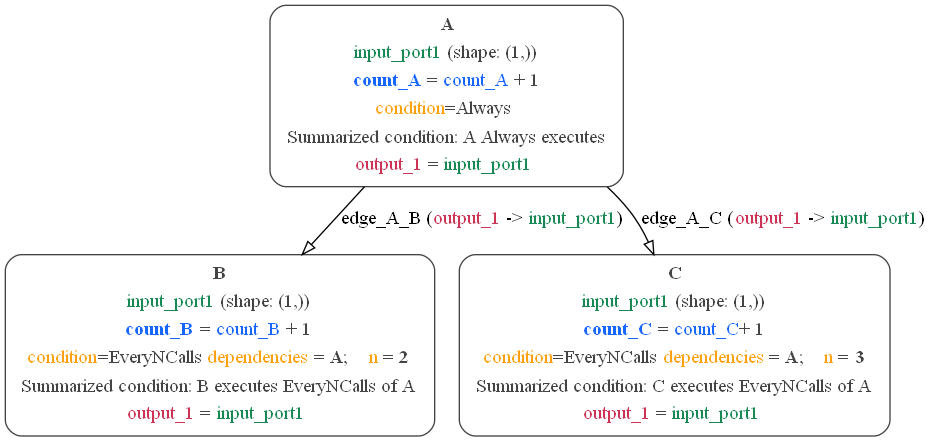
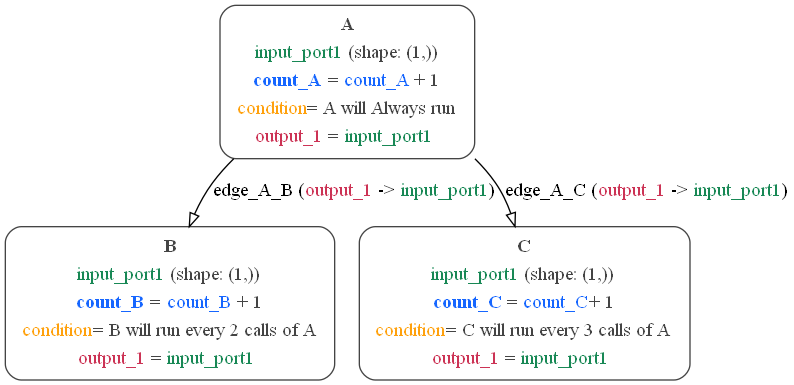
graphical export updated

Changed region(s): [[0.0, 0.0, 0.9975, 0.9974], [0.9068, 0.7792, 0.937, 0.8104]]

diff --git a/src/modeci_mdf/interfaces/graphviz/exporter.py b/src/modeci_mdf/interfaces/graphviz/exporter.py
@@ -294,16 +294,57 @@ def mdf_to_graphviz(
                             format_function(f.id),
                             format_standard_func(f.value),
                             argstr,
-                        )
-            if mdf_graph.conditions and mdf_graph.conditions.node_specific:
+                        ) 
+
+            #node specific conditions
+
+            if mdf_graph.conditions and mdf_graph.conditions.node_specific != None: #come to this ...
                 ns = mdf_graph.conditions.node_specific[node.id]
-                info += "<tr><td>{}{}={} ".format(
+                args = ns.kwargs
+                if ns.type == "EveryNCalls" :
+                    info += "<tr><td>{}{}= {} will run every {} calls of {}".format(
+                        format_label(" "),
+                        format_condition("condition"),
+                        node.id,
+                        args.get("n"),
+                        args.get("dependencies")
+                        )
+                    info += "</td></tr>"     
+                elif ns.type == "AfterNCalls" :
+                    info += "<tr><td>{}{}= {} will run after {} calls of {}".format(
+                        format_label(" "),
+                        format_condition("condition"),
+                        node.id,
+                        args.get("n"),
+                        args.get("dependencies")
+                        )
+                    info += "</td></tr>"
+                elif ns.type == "TimeInterval" :
+                    info += "<tr><td>{}{}= {} will run after {} ms".format(
+                        format_label(" "),
+                        format_condition("condition"),
+                        node.id,
+                        args.get("start")
+                        )
+                    info += "</td></tr>"
+                elif ns.type == "Threshold" :
+                    info += "<tr><td>{}{}= {} satisfied when the comparison between {} and {} is true".format(
+                        format_label(" "),
+                        format_condition("condition"),
+                        ns.type,
+                        args.get("parameter"),
+                        args.get("threshold")
+                        )
+                    info += "</td></tr>"     
+                else:
+                    info += "<tr><td>{}{}= {} will {} run".format(
                     format_label(" "),
                     format_condition("condition"),
-                    ns.type,
-                )
-                args = ns.kwargs
-                if args:
+                    node.id,
+                    ns.type
+                    )
+                    info += "</td></tr>"           
+                """ if args:
                     for con in args:
                         nn = format_num(args[con])
                         breaker = "<br/>"
@@ -312,18 +353,7 @@ def mdf_to_graphviz(
                             nn,
                             breaker if len(info.split(breaker)[-1]) > 500 else ";    ",
                         )
-                    info = info[:-5]
-
-                info += "</td></tr>"
-                if ns.type == "Always" or ns.type == "Never":
-                    info += "<tr><td>Summarized condition: {} {} executes".format(
-                        node.id, ns.type
-                    )
-                else:
-                    info += "<tr><td>Summarized condition: {} executes {} of {}".format(
-                        node.id, ns.type, args.get("dependencies")
-                    )
-                info += "</td></tr>"
+                    info = info[:-5] """
 
             if node.output_ports and len(node.output_ports) > 0:
                 for op in node.output_ports:
@@ -342,6 +372,22 @@ def mdf_to_graphviz(
 
         graph.node(node.id, label="<%s>" % info)
 
+    #termination condition added to 
+    if mdf_graph.conditions and mdf_graph.conditions.termination:
+        nt = mdf_graph.conditions.termination['environment_state_update'] 
+        args = nt.kwargs
+        print(args)
+        if nt.type == "Threshold" :
+            info += "<tr><td>{}{}= {} condition satisfied when the comparison between {} and {} evaluates to true".format(
+                format_label(" "),
+                format_condition("condition"),
+                nt.type,#threshold
+                args.get("parameter"),
+                args.get("threshold")
+                )
+            info += "</td></tr>"
+    # how to add termination condition to graph
+    mdf_graph.conditions()   
     for edge in mdf_graph.edges:
         print(f"    Edge: {edge.id} connects {edge.sender} to {edge.receiver}")
 

diff --git a/examples/MDF/conditions/everyNCalls.py b/examples/MDF/conditions/everyNCalls.py
@@ -36,7 +36,7 @@ def main():
 
         return n
 
-    a = create_simple_node(mod_graph, "A", sender=None)
+    a = create_simple_node(mod_graph, "A", sender= None)
     a.parameters.append(Parameter(id="param_A", value="param_A + 1"))
 
     b = create_simple_node(mod_graph, "B", a)
@@ -48,10 +48,10 @@ def main():
 
     cond_a = Condition(type="Always")  # A is always executed
     cond_b = Condition(
-        type="EveryNCalls", dependency=a.id, n=2
+        type="EveryNCalls", dependencies = a.id, n=2
     )  # B executes every 2 calls of A
     cond_c = Condition(
-        type="EveryNCalls", dependency=b.id, n=3
+        type="EveryNCalls", dependencies = b.id, n=3
     )  # C executes every 3 calls of B
 
     mod_graph.conditions = ConditionSet(
@@ -61,7 +61,6 @@ def main():
     )
     mod.to_json_file(os.path.join(os.path.dirname(__file__), "%s.json" % mod.id))
     mod.to_yaml_file(os.path.join(os.path.dirname(__file__), "%s.yaml" % mod.id))
-
     print_summary(mod_graph)
     import sys
 

diff --git a/examples/MDF/conditions/threshold.py b/examples/MDF/conditions/threshold.py
@@ -27,7 +27,7 @@ def main():
         n = Node(id=id_)
         graph.nodes.append(n)
 
-        ip1 = InputPort(id="input_port1")
+        ip1 = InputPort(id="input_port1", shape="(1,)")
         n.input_ports.append(ip1)
 
         n.output_ports.append(OutputPort(id="output_1", value="param_A"))
@@ -57,7 +57,7 @@ def main():
     )
     mod.to_json_file(os.path.join(os.path.dirname(__file__), "%s.json" % mod.id))
     mod.to_yaml_file(os.path.join(os.path.dirname(__file__), "%s.yaml" % mod.id))
-    print_summary(mod_graph)
+    #print_summary(mod_graph)
     import sys
 
     if "-run" in sys.argv:
@@ -80,7 +80,7 @@ def main():
             output_format="png",
             view_on_render=False,
             level=3,
-            filename_root="abc_conditions",
+            filename_root="threshold",
             only_warn_on_fail=True,  # Makes sure test of this doesn't fail on Windows on GitHub Actions
         )
 
